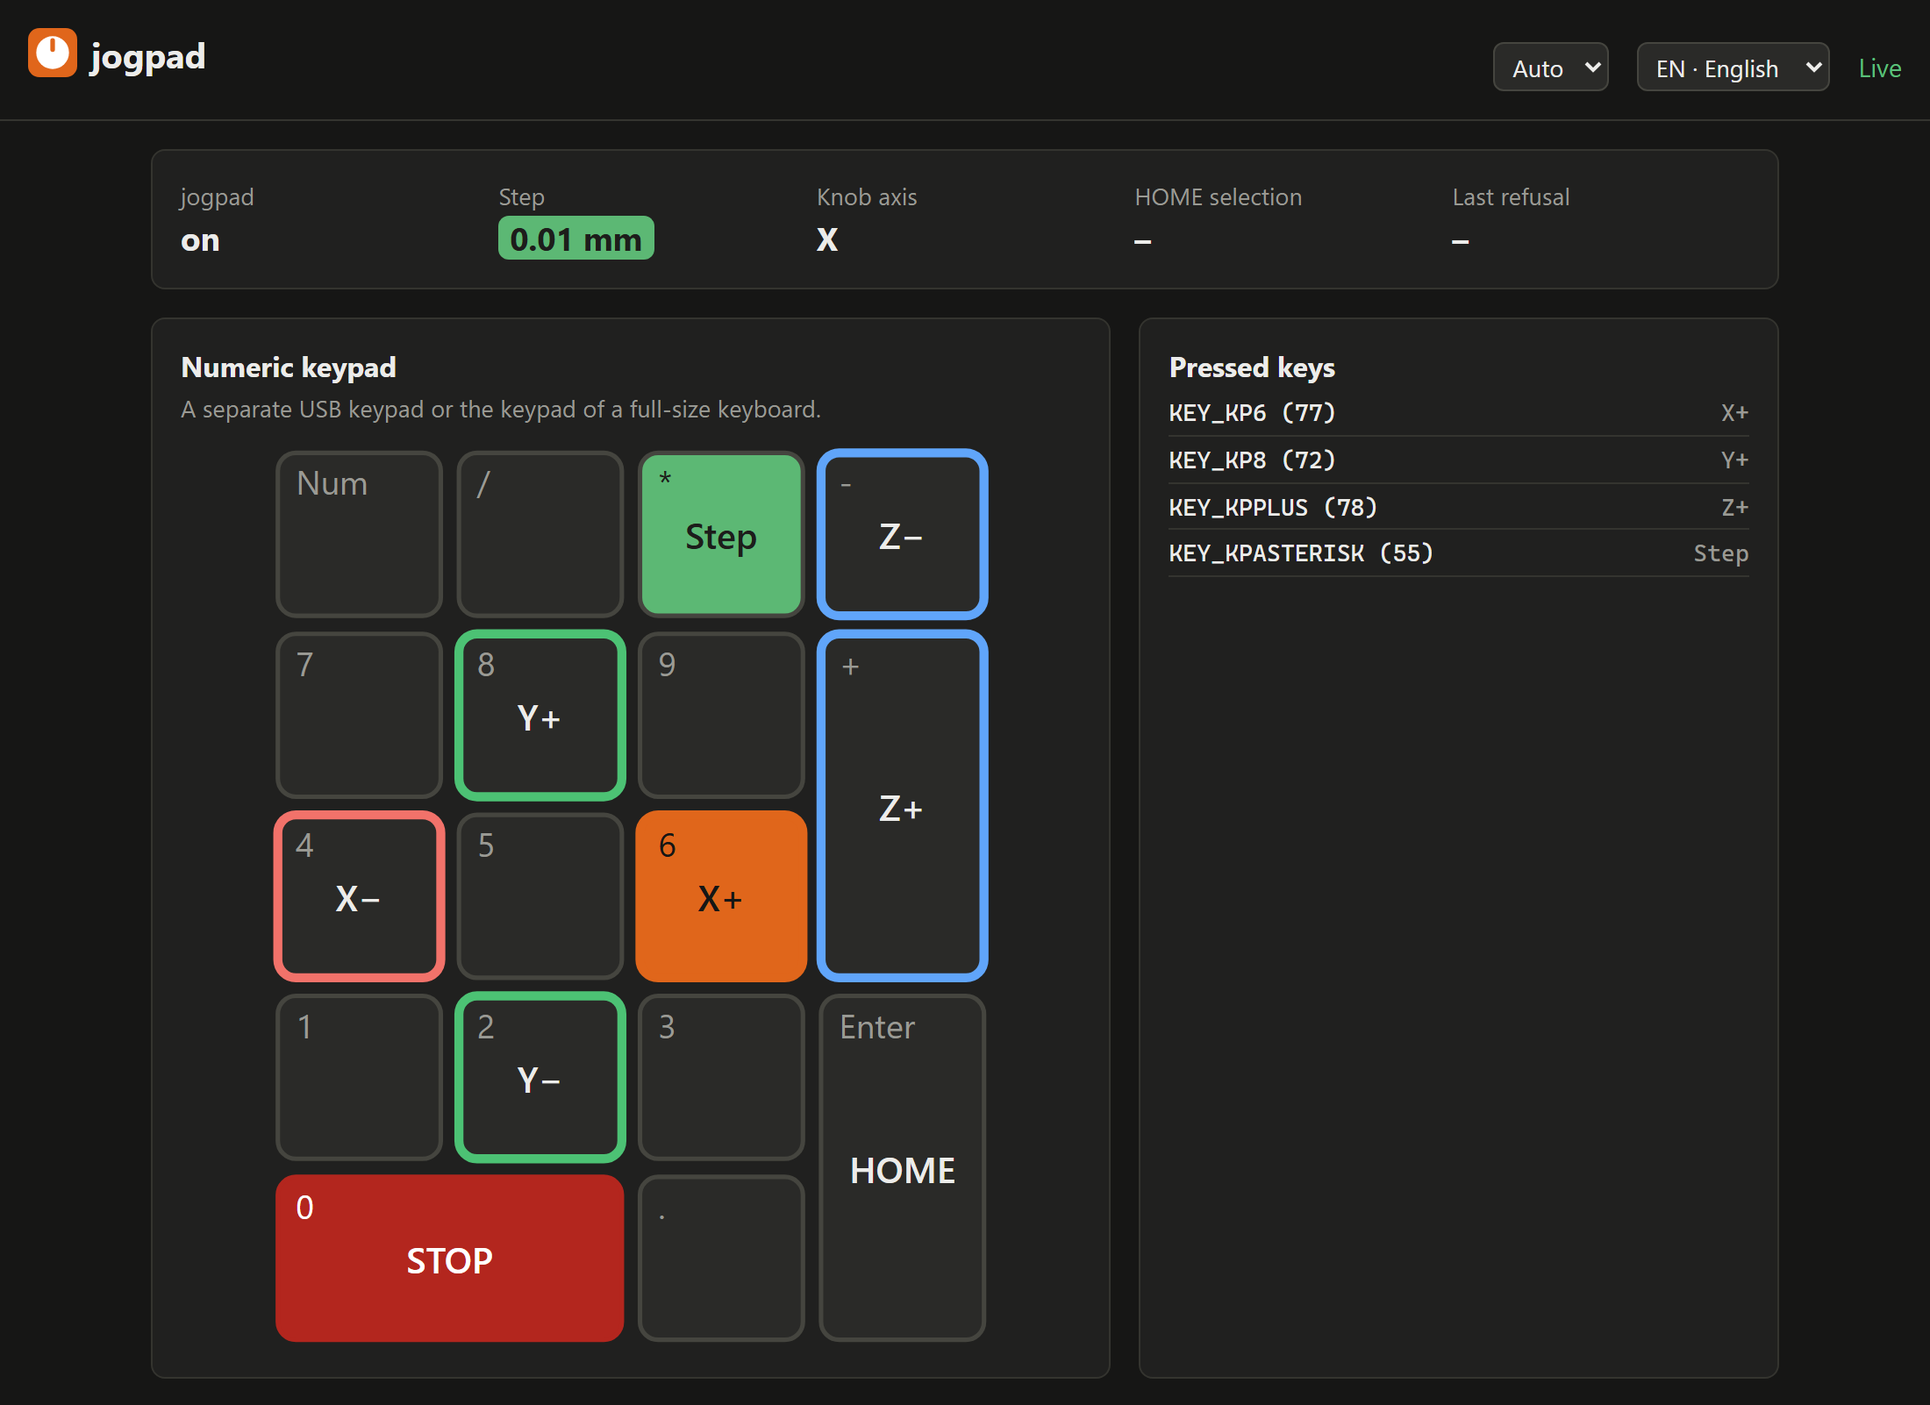
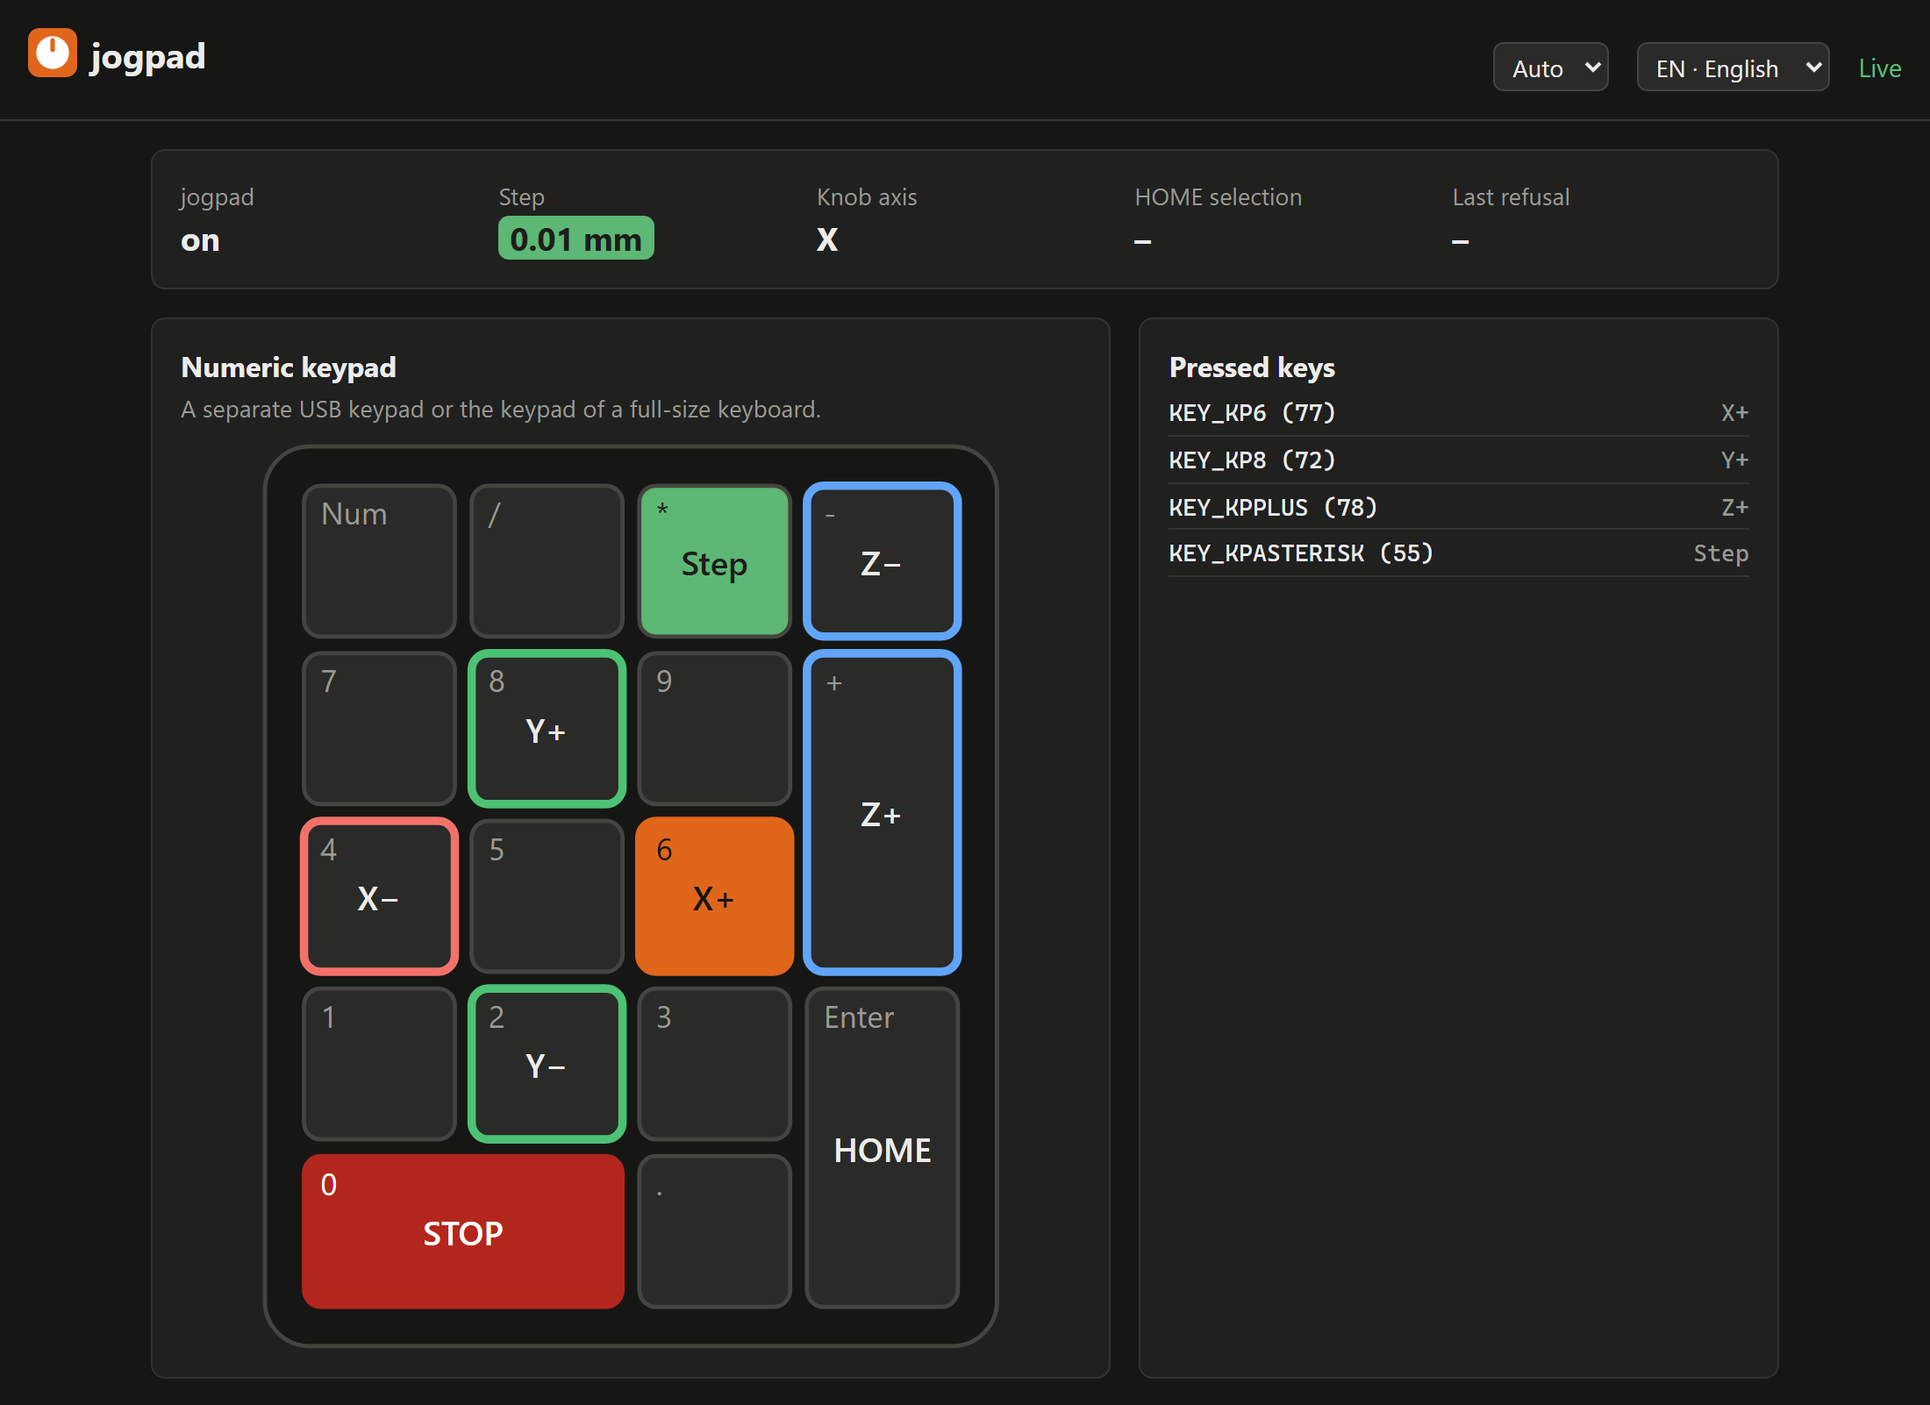
feat: the panel fits the pad, draws its outline and links to the full page
Feedback from the camera panel on the QIDI with the CH57x pad: a large
empty area below the pad, knob letters A and B unreadable on the circle,
no outline of the pad, no way to get from the panel to the full page.

- **Panel size.** Moonraker keeps the camera's aspect ratio from when it
was added; on the QIDI that was 40:58 from the keypad, while the CH57x
drawing needs about 59:68. `jogpad serve` now gives jogpad's camera the
ratio of the configured layout when it starts (`sync_panel`) and logs
it. If Moonraker is not up yet, it logs that and tries on the next
start.
- **No cut-off.** The ratio can only guess at the panel's width, which
depends on the screen. In `?view=panel` the drawing now fits the height
that is left, so a mismatch leaves a margin at the side instead of
cutting off the bottom. Checked with Playwright at 400×461, 560×645 and
400×580.
- **Outline.** A layout may bring its own outline, an SVG path in key
units with the box it fills. The CH57x layout gets the pad's L: the
block of keys and small knobs, and a leg down to the big knob, rounded
around it, with a fillet between the two. It is measured on a top-down
photo and scaled by the vendor's dimensions (116 × 120 mm, block of keys
73 mm deep); the key pitch on this pad is about 22 mm, and the three
knobs share one vertical axis. Layouts without an outline, such as the
keypad, get a rounded rectangle 0.2 key units around their controls. The
aspect ratio counts the outline in: keypad 44:62, CH57x 53:63.
[…]

Changed region(s): [[0.1236, 0.3121, 0.5255, 0.9675]]

diff --git a/src/jogpad/web/app.js b/src/jogpad/web/app.js
@@ -4,6 +4,9 @@
 
 const UNIT = 60; // pixels per key unit
 const GAP = 6;
+// The pad's outline runs this far around its controls, in key units; api.py
+// counts it into the panel's aspect ratio.
+const OUTLINE = 0.2;
 const RECENT = 12;
 const LEARN_S = 30;
 const LANGUAGE_KEY = "jogpad.language";
@@ -140,7 +143,10 @@ function drawPad(pad) {
     } else {
       svg("rect", { x, y, width: w, height: h }, group);
     }
-    text(c.label, { class: "label", x: x + 6, y: y + 14 }, group);
+    // On a knob the corner of the box lies outside the circle, so the label goes inside.
+    const knob = c.kind === "knob";
+    const label = knob ? { x: x + w / 2, y: y + 15, "text-anchor": "middle" } : { x: x + 6, y: y + 14 };
+    text(c.label, { class: "label", ...label }, group);
 
     const actions = pad.actions[c.id] || {};
     const names = ["press", "cw", "ccw"]
@@ -148,14 +154,25 @@ function drawPad(pad) {
       .map((part) => labels[actions[part]] || actions[part]);
     const middle = { x: x + w / 2, "text-anchor": "middle" };
     names.forEach((name, i) => {
-      const offset = (i - (names.length - 1) / 2) * 14;
+      // Below the knob's label, a little tighter, so three lines fit a small knob.
+      const offset = knob ? (i - (names.length - 1) / 2) * 13 + 5 : (i - (names.length - 1) / 2) * 14;
       text(name, { ...middle, class: "action", y: y + h / 2 + 5 + offset }, group);
     });
     const turn = text("", { ...middle, class: "turn", y: y + h - 8 }, group);
     group.classList.toggle("stop", Object.values(actions).includes("stop"));
     controls.set(c.id, { group, turn, actions: Object.values(actions) });
   }
-  root.setAttribute("viewBox", `0 0 ${width} ${height}`);
+  const shape = pad.layout.outline;
+  const margin = OUTLINE * UNIT;
+  const box = shape
+    ? { x: shape.x * UNIT, y: shape.y * UNIT, width: shape.w * UNIT, height: shape.h * UNIT }
+    : { x: -margin, y: -margin, width: width + 2 * margin, height: height + 2 * margin };
+  const outline = shape
+    ? svg("path", { class: "outline", d: shape.path, transform: `scale(${UNIT})` }, root)
+    : svg("rect", { class: "outline", x: box.x + 1, y: box.y + 1, width: box.width - 2, height: box.height - 2 }, root);
+  // First child, so it lies behind the controls.
+  root.prepend(outline);
+  root.setAttribute("viewBox", `${box.x} ${box.y} ${box.width} ${box.height}`);
 }
 
 function showEvent(event) {
@@ -524,6 +541,11 @@ async function main() {
   showLinks(version);
   $("label-step").textContent = t("ui.step");
   $("label-switch").textContent = t("ui.switch");
+  // The camera panel in Mainsail and Fluidd hides the header; its label leads to the full page.
+  if (document.body.classList.contains("panel")) {
+    const attrs = { href: "/", target: "_blank", rel: "noopener", title: t("ui.open_page") };
+    $("label-switch").replaceChildren(el("a", attrs, `${t("ui.switch")} ↗`));
+  }
   $("switched-off-text").textContent = t("ui.switch_off_note");
   $("switch-on").textContent = t("ui.switch_turn_on");
   $("switch-on").onclick = () => setSwitch(true);

diff --git a/src/jogpad/web/style.css b/src/jogpad/web/style.css
@@ -123,6 +123,14 @@ section {
 }
 
 .control rect { rx: var(--radius-small); }
+.outline {
+  fill: var(--bg);
+  stroke: var(--key-edge);
+  stroke-width: calc(var(--border) * 1.5);
+  rx: calc(var(--radius) * 2);
+  /* A layout's own outline is drawn in key units and scaled up; the line is not. */
+  vector-effect: non-scaling-stroke;
+}
 .control text { fill: var(--text); pointer-events: none; }
 .control .label { fill: var(--muted); font-size: 11px; }
 .control .action { font-size: 12px; font-weight: 600; }
@@ -140,8 +148,6 @@ section {
 .control.step-middle rect, .control.step-middle circle { fill: var(--step-middle); }
 .control.step-large rect, .control.step-large circle { fill: var(--step-large); }
 .control[class*="step-"] text { fill: var(--step-text); }
-/* A knob's label sits outside its circle, on the page. */
-.control circle ~ .label { fill: var(--muted); }
 
 .control.active rect, .control.active circle { fill: var(--accent); stroke: var(--accent); }
 .control.active text { fill: var(--accent-text); }
@@ -221,11 +227,23 @@ button:focus-visible { outline: 2px solid var(--accent); outline-offset: 2px; }
 
 /* ?view=panel: the pad and its state only, for an iframe in Mainsail or Fluidd. */
 .panel header, .panel footer, .panel .recent, .panel .setup, .panel .pad h2, .panel .note { display: none; }
-.panel main { padding: 0.5rem; gap: 0.5rem; max-width: none; grid-template-columns: minmax(0, 1fr); }
+/* The camera's aspect ratio is a guess at the panel's width, so the pad fits
+   into whatever height is left instead of running off the bottom. */
+.panel main {
+  height: 100vh;
+  padding: 0.5rem;
+  gap: 0.5rem;
+  max-width: none;
+  grid-template-columns: minmax(0, 1fr);
+  grid-template-rows: auto minmax(0, 1fr);
+}
 .panel section { padding: 0.5rem; }
 /* One row whatever the width, so the height the camera's aspect ratio expects holds. */
 .panel .state { grid-column: auto; gap: 0.4rem; grid-template-columns: repeat(5, minmax(0, 1fr)); }
 .panel .state span { font-size: 0.7rem; }
 .panel .state strong, .panel .state .toggle { font-size: 0.95rem; }
+.panel #label-switch a { color: var(--accent); font-weight: 600; text-decoration: none; }
+.panel #label-switch a:hover { text-decoration: underline; }
 .panel #step[data-size] { padding: 0 0.2rem; }
-.panel #pad { max-height: none; }
+.panel .pad { display: flex; min-height: 0; }
+.panel #pad { flex: 1; height: 100%; max-height: none; }

diff --git a/tests/test_api.py b/tests/test_api.py
@@ -3,7 +3,7 @@ from pathlib import Path
 
 from fastapi.testclient import TestClient
 
-from jogpad.api import create_app, describe_event, describe_pad, panel_aspect_ratio
+from jogpad.api import create_app, describe_event, describe_pad, panel_aspect_ratio, sync_panel
 from jogpad.config import Config
 from jogpad.core import BackendError
 from jogpad.moonraker import IPNetwork, Moonraker
@@ -105,9 +105,9 @@ class FakeMoonraker(Moonraker):
         self._check()
         self.switched_on = on
 
-    def panel_url(self) -> str | None:
+    def panel(self) -> tuple[str, str] | None:
         self._check()
-        return self.camera[0] if self.camera else None
+        return self.camera
 
     def add_panel(self, url: str, aspect_ratio: str) -> None:
         self._check()
@@ -268,8 +268,27 @@ def test_panel_while_moonraker_is_down_fails_visibly(tmp_path: Path) -> None:
     assert api.get("/api/panel").status_code == 503
 
 
-def test_panel_of_the_keypad_fits_the_pad_and_the_state_bar() -> None:
-    assert panel_aspect_ratio(Config()) == "40:58"
+def test_panel_of_the_keypad_fits_the_pad_its_outline_and_the_state_bar() -> None:
+    assert panel_aspect_ratio(Config()) == "44:62"
+
+
+def test_panel_of_a_pad_with_its_own_outline_fits_that_outline() -> None:
+    config = Config.model_validate({"input": {"layout": "ch57x-9k3"}})
+    assert panel_aspect_ratio(config) == "53:63"
+
+
+def test_camera_added_for_another_layout_gets_the_ratio_of_this_one() -> None:
+    config = Config.model_validate({"input": {"layout": "ch57x-9k3"}})
+    moonraker = FakeMoonraker()
+    moonraker.camera = ("http://printer:7150/?view=panel", "40:58")
+    sync_panel(config, moonraker)
+    assert moonraker.camera == ("http://printer:7150/?view=panel", panel_aspect_ratio(config))
+
+
+def test_without_a_camera_none_is_added() -> None:
+    moonraker = FakeMoonraker()
+    sync_panel(Config(), moonraker)
+    assert moonraker.camera is None
 
 
 def test_switch_turns_jogpad_off_through_moonraker(tmp_path: Path) -> None:

diff --git a/src/jogpad/api.py b/src/jogpad/api.py
@@ -33,6 +33,8 @@ MAX_LEARN_S = 60
 # Height of the state bar in the panel view, in key units: one row of cells at the
 # usual width of a camera panel.
 PANEL_STATE_ROWS = 0.8
+# The web page draws the pad's outline this far around its controls, in key units.
+PANEL_OUTLINE = 0.2
 FORBIDDEN = "changes are only allowed from this computer and from computers Moonraker trusts"
 
 
@@ -133,10 +135,25 @@ def panel_aspect_ratio(config: Config) -> str:
     """Width to height of the panel view: the pad plus the state bar above it."""
     if config.input.layout == NO_LAYOUT:
         return "4:3"
-    controls = load_layout(config.input.layout).controls
-    width = max(c.x + c.w for c in controls)
-    height = max(c.y + c.h for c in controls) + PANEL_STATE_ROWS
-    return f"{round(width * 10)}:{round(height * 10)}"
+    layout = load_layout(config.input.layout)
+    if layout.outline:
+        width, height = layout.outline.w, layout.outline.h
+    else:
+        width = max(c.x + c.w for c in layout.controls) + 2 * PANEL_OUTLINE
+        height = max(c.y + c.h for c in layout.controls) + 2 * PANEL_OUTLINE
+    return f"{round(width * 10)}:{round((height + PANEL_STATE_ROWS) * 10)}"
+
+
+def sync_panel(config: Config, moonraker: Moonraker) -> str | None:
+    """Gives jogpad's camera the aspect ratio of the configured layout; the new
+    ratio if it changed one. Moonraker keeps the ratio from when the camera was
+    added, so after a change of layout the view would be cut off or too tall."""
+    camera = moonraker.panel()
+    ratio = panel_aspect_ratio(config)
+    if camera is None or camera[1] == ratio:
+        return None
+    moonraker.add_panel(camera[0], ratio)
+    return ratio
 
 
 def describe_event(config: Config, code: int, value: int) -> KeyEvent:

diff --git a/tests/test_cli.py b/tests/test_cli.py
@@ -7,10 +7,16 @@ import uvicorn
 
 from jogpad import ch57x
 from jogpad.cli import main
+from jogpad.moonraker import Moonraker
+
+
+@pytest.fixture
+def no_camera(monkeypatch: pytest.MonkeyPatch) -> None:
+    monkeypatch.setattr(Moonraker, "panel", lambda self: None)
 
 
 def test_serve_logs_where_it_listens(
-    monkeypatch: pytest.MonkeyPatch, caplog: pytest.LogCaptureFixture
+    monkeypatch: pytest.MonkeyPatch, caplog: pytest.LogCaptureFixture, no_camera: None
 ) -> None:
     monkeypatch.setattr(uvicorn, "run", lambda app, **options: None)
     with caplog.at_level(logging.INFO, logger="jogpad.cli"):
@@ -18,7 +24,9 @@ def test_serve_logs_where_it_listens(
     assert "listening on http://0.0.0.0:7150" in caplog.text
 
 
-def test_serve_keeps_requests_out_of_the_journal(monkeypatch: pytest.MonkeyPatch) -> None:
+def test_serve_keeps_requests_out_of_the_journal(
+    monkeypatch: pytest.MonkeyPatch, no_camera: None
+) -> None:
     options: dict[str, Any] = {}
     monkeypatch.setattr(uvicorn, "run", lambda app, **given: options.update(given))
     main(["serve"])

diff --git a/src/jogpad/cli.py b/src/jogpad/cli.py
@@ -176,12 +176,18 @@ def _keys(config: Config, devices: list[str]) -> int:
 def _serve(config: Config, path: Path | None) -> int:
     import uvicorn
 
-    from jogpad.api import create_app
-    from jogpad.core import Jogger
+    from jogpad.api import create_app, sync_panel
+    from jogpad.core import BackendError, Jogger
     from jogpad.moonraker import Moonraker
     from jogpad.service import Service
 
     backend = Moonraker(config.machine.url)
+    try:
+        if ratio := sync_panel(config, backend):
+            log.info(t("server.panel_resized", config.server.language, ratio=ratio))
+    except BackendError as exc:
+        # At boot Moonraker may not be up yet; the next start tries again.
+        log.info(t("server.panel_unchecked", config.server.language, error=exc))
     service = Service(Jogger(config, backend), backend, config.input.devices)
     service.start()
     host, port = config.server.host, config.server.port

diff --git a/src/jogpad/moonraker.py b/src/jogpad/moonraker.py
@@ -97,6 +97,11 @@ class Moonraker:
 
     def panel_url(self) -> str | None:
         """Address of jogpad's camera in Mainsail and Fluidd, None if there is none."""
+        camera = self.panel()
+        return camera[0] if camera else None
+
+    def panel(self) -> tuple[str, str] | None:
+        """Address and aspect ratio of jogpad's camera, None if there is none."""
         reply = self._request("/server/webcams/list")
         try:
             webcams: list[dict[str, Any]] = reply["result"]["webcams"]
@@ -104,7 +109,7 @@ class Moonraker:
             raise BackendError(f"unexpected reply: {reply!r:.300}") from exc
         for webcam in webcams:
             if webcam.get("name") == PANEL:
-                return str(webcam.get("stream_url", ""))
+                return str(webcam.get("stream_url", "")), str(webcam.get("aspect_ratio", ""))
         return None
 
     def add_panel(self, url: str, aspect_ratio: str) -> None:

diff --git a/src/jogpad/layouts.py b/src/jogpad/layouts.py
@@ -50,6 +50,18 @@ class Control(BaseModel):
         return value
 
 
+class Outline(BaseModel):
+    """The pad's real shape, in key units like the controls."""
+
+    model_config = ConfigDict(extra="forbid")
+
+    x: float
+    y: float
+    w: float
+    h: float
+    path: str = Field(description="SVG path of the outline, within the box x, y, w, h.")
+
+
 class Layout(BaseModel):
     model_config = ConfigDict(extra="forbid")
 
@@ -60,6 +72,9 @@ class Layout(BaseModel):
         {}, description="Name and note per language; English is `name` and `note`."
     )
     controls: list[Control]
+    outline: Outline | None = Field(
+        None, description="The pad's shape; without it a rounded rectangle around the controls."
+    )
 
     def localized(self, language: str) -> Layout:
         texts = self.translations.get(language, {})

diff --git a/tests/test_moonraker.py b/tests/test_moonraker.py
@@ -58,6 +58,14 @@ def test_panel_url_is_read_from_the_camera_list(monkeypatch: pytest.MonkeyPatch)
     assert Moonraker("http://moonraker").panel_url() == "http://printer:7150/?view=panel"
 
 
+def test_panel_reports_the_aspect_ratio_of_the_camera(monkeypatch: pytest.MonkeyPatch) -> None:
+    webcams = [
+        {"name": "jogpad", "stream_url": "http://printer:7150/?view=panel", "aspect_ratio": "40:58"}
+    ]
+    answer_with(monkeypatch, {"result": {"webcams": webcams}})
+    assert Moonraker("http://moonraker").panel() == ("http://printer:7150/?view=panel", "40:58")
+
+
 def test_without_jogpad_camera_there_is_no_panel(monkeypatch: pytest.MonkeyPatch) -> None:
     answer_with(monkeypatch, {"result": {"webcams": [{"name": "Bed"}]}})
     assert Moonraker("http://moonraker").panel_url() is None

diff --git a/scripts/screenshots.py b/scripts/screenshots.py
@@ -26,8 +26,8 @@ from jogpad.moonraker import Moonraker
 ROOT = Path(__file__).resolve().parents[1]
 OUT = ROOT / "docs" / "assets" / "screenshots"
 VIEWPORT = {"width": 1100, "height": 860}
-# Width of a camera panel in Mainsail; the height follows the keypad panel's 40:58.
-PANEL_VIEWPORT = {"width": 400, "height": 580}
+# Width of a camera panel in Mainsail; the height follows the keypad panel's 44:62.
+PANEL_VIEWPORT = {"width": 400, "height": 564}
 
 # KeyEvent payloads as /api/events sends them.
 PRESSES = [

diff --git a/tests/test_layouts.py b/tests/test_layouts.py
@@ -38,3 +38,12 @@ def test_unknown_key_name_in_layout_is_rejected() -> None:
 
 def test_layout_without_translation_keeps_english() -> None:
     assert load_layout("numpad").localized("fr").name == "Numeric keypad"
+
+
+def test_ch57x_outline_holds_every_control() -> None:
+    layout = load_layout("ch57x-9k3")
+    box = layout.outline
+    assert box is not None and all(
+        box.x <= c.x and c.x + c.w <= box.x + box.w and box.y <= c.y and c.y + c.h <= box.y + box.h
+        for c in layout.controls
+    )

diff --git a/docs/usage.md b/docs/usage.md
@@ -206,7 +206,11 @@ true` lets every computer in the network reassign your keys, STOP included.
 Mainsail and Fluidd have no panels for other programs, but both show a web
 page as a camera. Under **Set up**, **Add** registers jogpad's compact view,
 the pad and its state, as the camera `jogpad` in Moonraker; both show it in
-their camera panel. **Remove** takes it out again.
+their camera panel. **Remove** takes it out again. **jogpad ↗** at the top left
+of the view opens the full page in a new tab.
+
+The camera's aspect ratio follows the drawing of your pad. After a change of
+`layout`, jogpad sets the new one when it starts; the journal says so.
 
 ![The compact view in a camera panel: the state bar above the drawn keypad](assets/screenshots/mainsail-panel.png)
 
